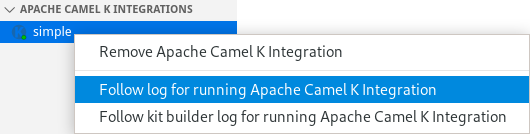
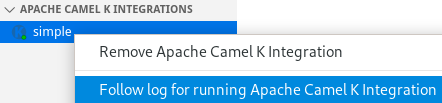
removing kit log action and menu along with didact and readme references (#451)
* removing kit log action and menu along with didact and readme references
* removing kit log methods 
* removed additional logutils and unneeded test
* slight adjustment to readme
* FUSETOOLS2-502 - update image in tutorial (#1)
* FUSETOOLS2-502 - add removal of Kit builder log access in changelog (#2)

diff --git a/src/logUtils.ts b/src/logUtils.ts
@@ -110,44 +110,6 @@ export function handleLogViaKubectlCli(podName: string) : Promise<string> {
 	});
 }
 
-export function parseKamelGetResponseForKitName(incoming : string) : string | undefined {
-	if (incoming) {
-		let lines : string[] = incoming.split("\n");
-		if (lines.length > 1) {
-			let secondLine = lines[1];
-			let columns : string[] = secondLine.split("\t");
-			if (columns.length > 2) {
-				let kitname = columns[2];
-				return kitname;
-			}
-		}
-	}
-	return undefined;
-}
-
-export function handleKitLog(integrationName: string) : Promise<string> {
-	return new Promise<string>( async () => {
-		await getIntegrationsListFromKamel(integrationName).then( async (result : string ) => {
-			if (result && result.length > 0) {
-				let kitname = parseKamelGetResponseForKitName(result);
-				if (kitname) {
-					let fullkitname = `camel-k-${kitname}-builder`;
-					await handleLogViaKubectlCli(fullkitname)
-					.then( () => {
-						Promise.resolve();
-					}).catch((error) => {
-						throw new Error(error);
-					});
-				} else {
-					throw new Error(`Kit name for integration ${integrationName} not found`);
-				}
-			}
-		}).catch( (err) => {
-			throw new Error(err);
-		});
-	});
-}
-
 export function handleOperatorLog() : Promise<string> {
 	return new Promise<string>( async () => {
 		const operatorName = `camel-k-operator`;

diff --git a/src/extension.ts b/src/extension.ts
@@ -159,24 +159,6 @@ export async function activate(context: vscode.ExtensionContext) {
 			});
 		});
 
-		// create the context menu integration view action -- open kit log
-		vscode.commands.registerCommand('camelk.integrations.kitlog', async (node: TreeNode) => {
-			let selection : TreeNode = node;
-			if (!selection) {
-				if (camelKIntegrationsTreeView.selection) {
-					selection = camelKIntegrationsTreeView.selection[0] as TreeNode;
-				}
-			}
-			if (selection && selection.label) {
-				let integrationName : string = selection.label;
-				utils.shareMessage(mainOutputChannel, `Retrieving log for Apache Camel K Integration kit...`);
-				await logUtils.handleKitLog(integrationName)
-				.catch( (err) => {
-					utils.shareMessage(mainOutputChannel, `No Apache Camel K Integration Kit available: ${err} \n`);
-				});
-			}
-		});
-
 		vscode.commands.registerCommand('camelk.integrations.createNewIntegrationFile', async (...args:any[]) => { await NewIntegrationFileCommand.create(args);});
 
 		vscode.commands.registerCommand('camelk.integrations.selectFirstNode', () => { selectFirstItemInTree();});

diff --git a/README.md b/README.md
@@ -235,7 +235,7 @@ Optionally, to disable status bar messages:
 
 ## Viewing the log for a Apache Camel K Operator
 
-In the background of each Apache Camel K system, there is usually an Operator coordinating the various builders and integrations being spun up. This log will often contain information not found in the other logs (see [Viewing the running log](#viewing-the-running-log-for-a-published-apache-camel-k-integration) and [Viewing the Kit Builder Log](#viewing-the-kit-builder-log-for-an-apache-camel-k-integration) below for details on opening the other available logs).
+In the background of each Apache Camel K system, there is an Operator coordinating the various builders and integrations being spun up. This log will often contain information not found in the integration log, including kit builder details. (See [Viewing the running log](#viewing-the-running-log-for-a-published-apache-camel-k-integration) below for details on opening the integration log.)
 
 ![Apache Camel K Integrations view - Follow log](images/camelk-integrations-view-operator-log-action.jpg)
 
@@ -259,13 +259,6 @@ Note: By default, `Auto-scroll` is checked and new entries in the log will autom
 
 1. From the **Apache Camel K Integrations** view, right-click the integration that you want to stop.
 2. Select **Remove Apache Camel K Integration**.
-
-## Viewing the Kit Builder Log for an Apache Camel K integration
-
-1. From the **Apache Camel K Integrations** view, right-click the integration that you want to stop.
-2. Select **Follow kit builder log for running Apache Camel K integration**.
-
-A new view opens. It is named for the running pod where the Kit Builder is running. This log updates as new data is added. 
 
 ## Apache Camel K Extension Settings
 

diff --git a/didact/camelk/first-integration.md b/didact/camelk/first-integration.md
@@ -85,7 +85,6 @@ From here, we can:
 - Hover over the `Apache Camel K Integrations` view and click the `Open Apache Camel K Operator Log` button to view it. [(Execute^)](didact://?commandId=camelk.integrations.openOperatorLog)
 - Hover over the integration name to see its current state in the tooltip. [(Execute to select first integration in tree^)](didact://?commandId=camelk.integrations.selectFirstNode)
 - Right-click on the running integration to `Follow log for running Apache Camel K Integration` [(Execute for selected integration^)](didact://?commandId=camelk.integrations.log)
-- Right-click on the running integration to `Follow kit builder log for running Apache Camel K Integration` [(Execute for selected integration^)](didact://?commandId=camelk.integrations.kitlog)
 - Right-click on the running integration to `Remove Apache Camel K Integration` and undeploy it.
 
 

diff --git a/CHANGELOG.md b/CHANGELOG.md
@@ -9,6 +9,7 @@ All notable changes to the "vscode-camelk" extension will be documented in this 
 - Completion for trait names and trait properties in tasks.json
 - Command to create new Apache Camel K Integration files
 - A tutorial to create and deploy your first Camel K Integration is available (requires [VS Code Didact](https://marketplace.visualstudio.com/items?itemName=redhat.vscode-didact) to be installed)
+- Access to Kit builder log has been removed. Since Camel K 1.0.0, the corresponding log is by default in the [Apache Camel K Operator log](./README.md#Viewing-the-log-for-a-apache-camel-k-operator)
 
 ## 0.0.13
 
